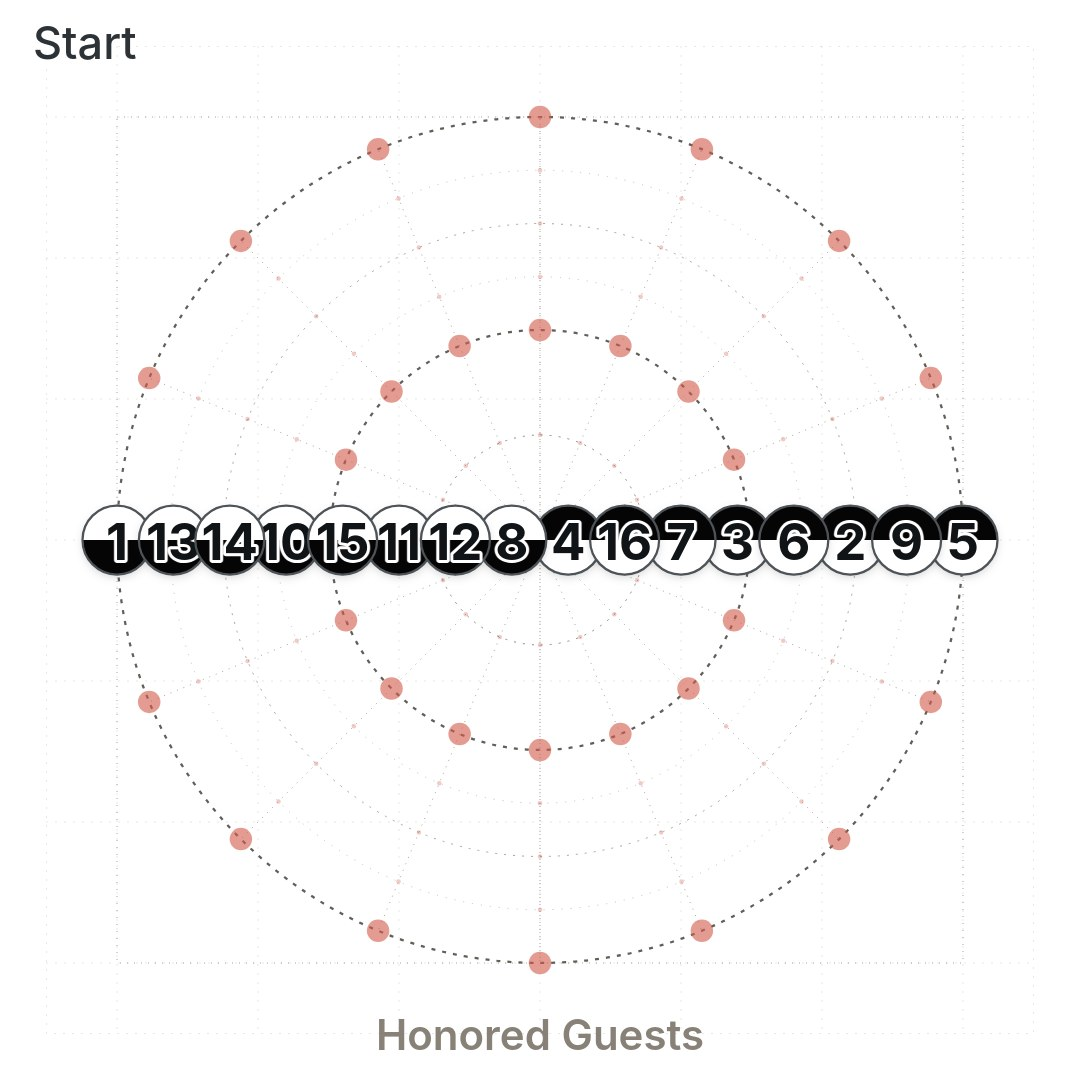
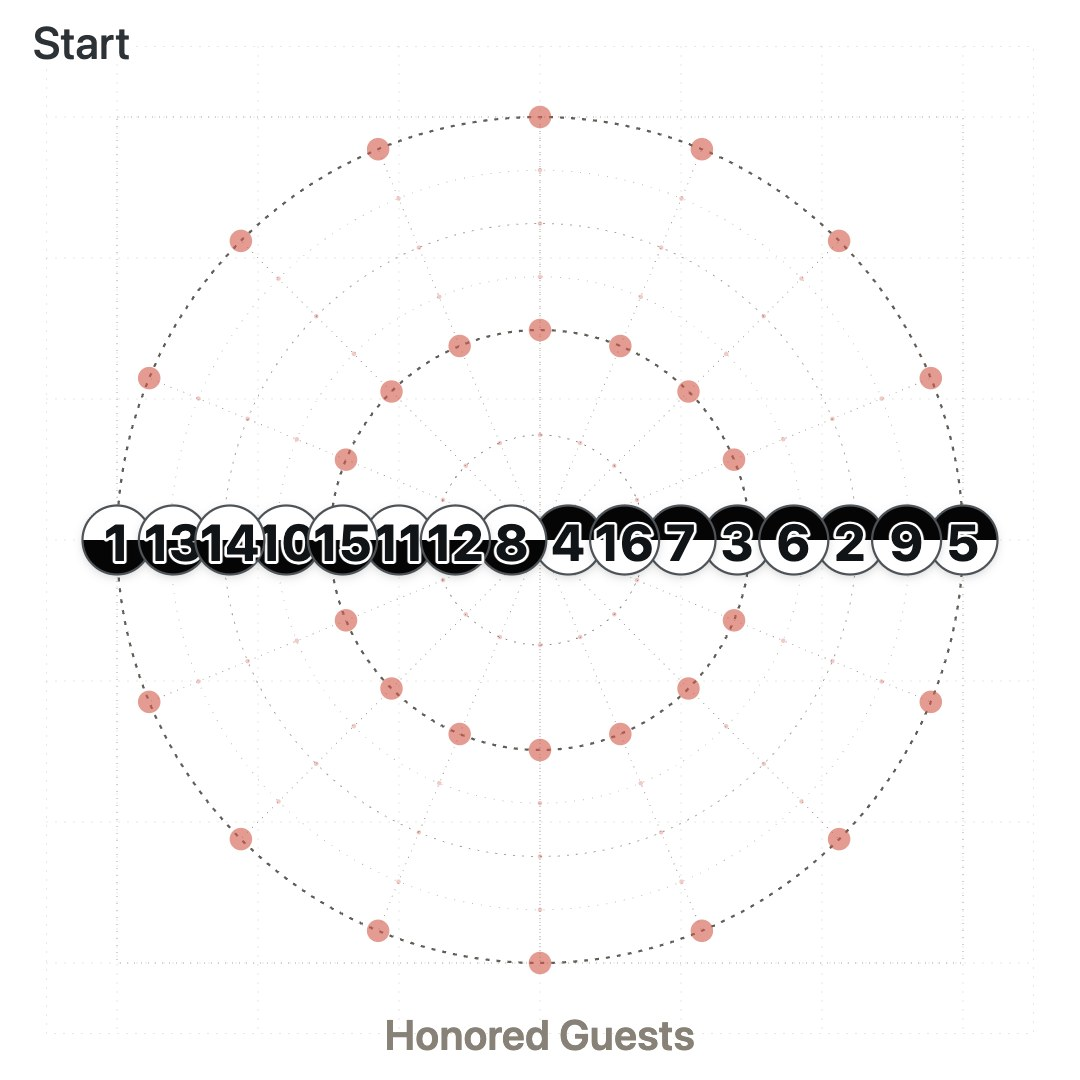
Waltz 14 Swirling Cascade: Test frame and Groups frames

diff --git a/index.html b/index.html
@@ -4982,7 +4982,32 @@
             named(frame("Start", 1, 2, FIT), flowers, "Start"),
             named(frame("Measure 1", 1, 4, FIT, forwardLook), flowers, "Measure 1"),
           ],
-          swirl: [named(frame("Start", 1, 4, FIT, forwardLook), swirl, "Start")],
+          swirl: [
+            named(frame("Start", 1, 4, FIT, forwardLook), swirl, "Start"),
+            // "Test frame" (Ariel, 11/23): the same line, every other couple from the left end with
+            // the follow facing the Honored Guests (the lead's half to the south), the couples between
+            // them with the lead facing them (the lead's half to the north).
+            (() => {
+              const line = frame("Test frame", 1, 4, FIT);
+              const byX = [...line.items].sort((a, b) => a.x - b.x).map((item) => item.number);
+              line.items.forEach((item) => { item.facingMode = byX.indexOf(item.number) % 2 ? "north" : "south"; });
+              return named(line, swirl, "Test frame");
+            })(),
+            // "Groups" (Ariel, 11/23): the test frame's line outlined in four groups: follows facing
+            // the Honored Guests on the left (amber) and on the right (blue), then the back-facing
+            // couples (lead facing the Honored Guests) on the left (green) and on the right (rose).
+            (() => {
+              const line = frame("Groups", 1, 4, FIT);
+              const byX = [...line.items].sort((a, b) => a.x - b.x).map((item) => item.number);
+              line.items.forEach((item) => {
+                const front = byX.indexOf(item.number) % 2 === 0;
+                const left = item.x < CENTER.x;
+                item.facingMode = front ? "south" : "north";
+                item.groupColor = front ? (left ? "amber" : "blue") : (left ? "green" : "rose");
+              });
+              return named(line, swirl, "Groups");
+            })(),
+          ],
           // Section 15 is seeded in the same horizontal line (Ariel, 11/16), every other couple
           // facing the Honored Guests the other way round: from couple 1 at the left end, the lead
           // faces the Honored Guests (the lead's half to the north), then the follow (the lead's half
